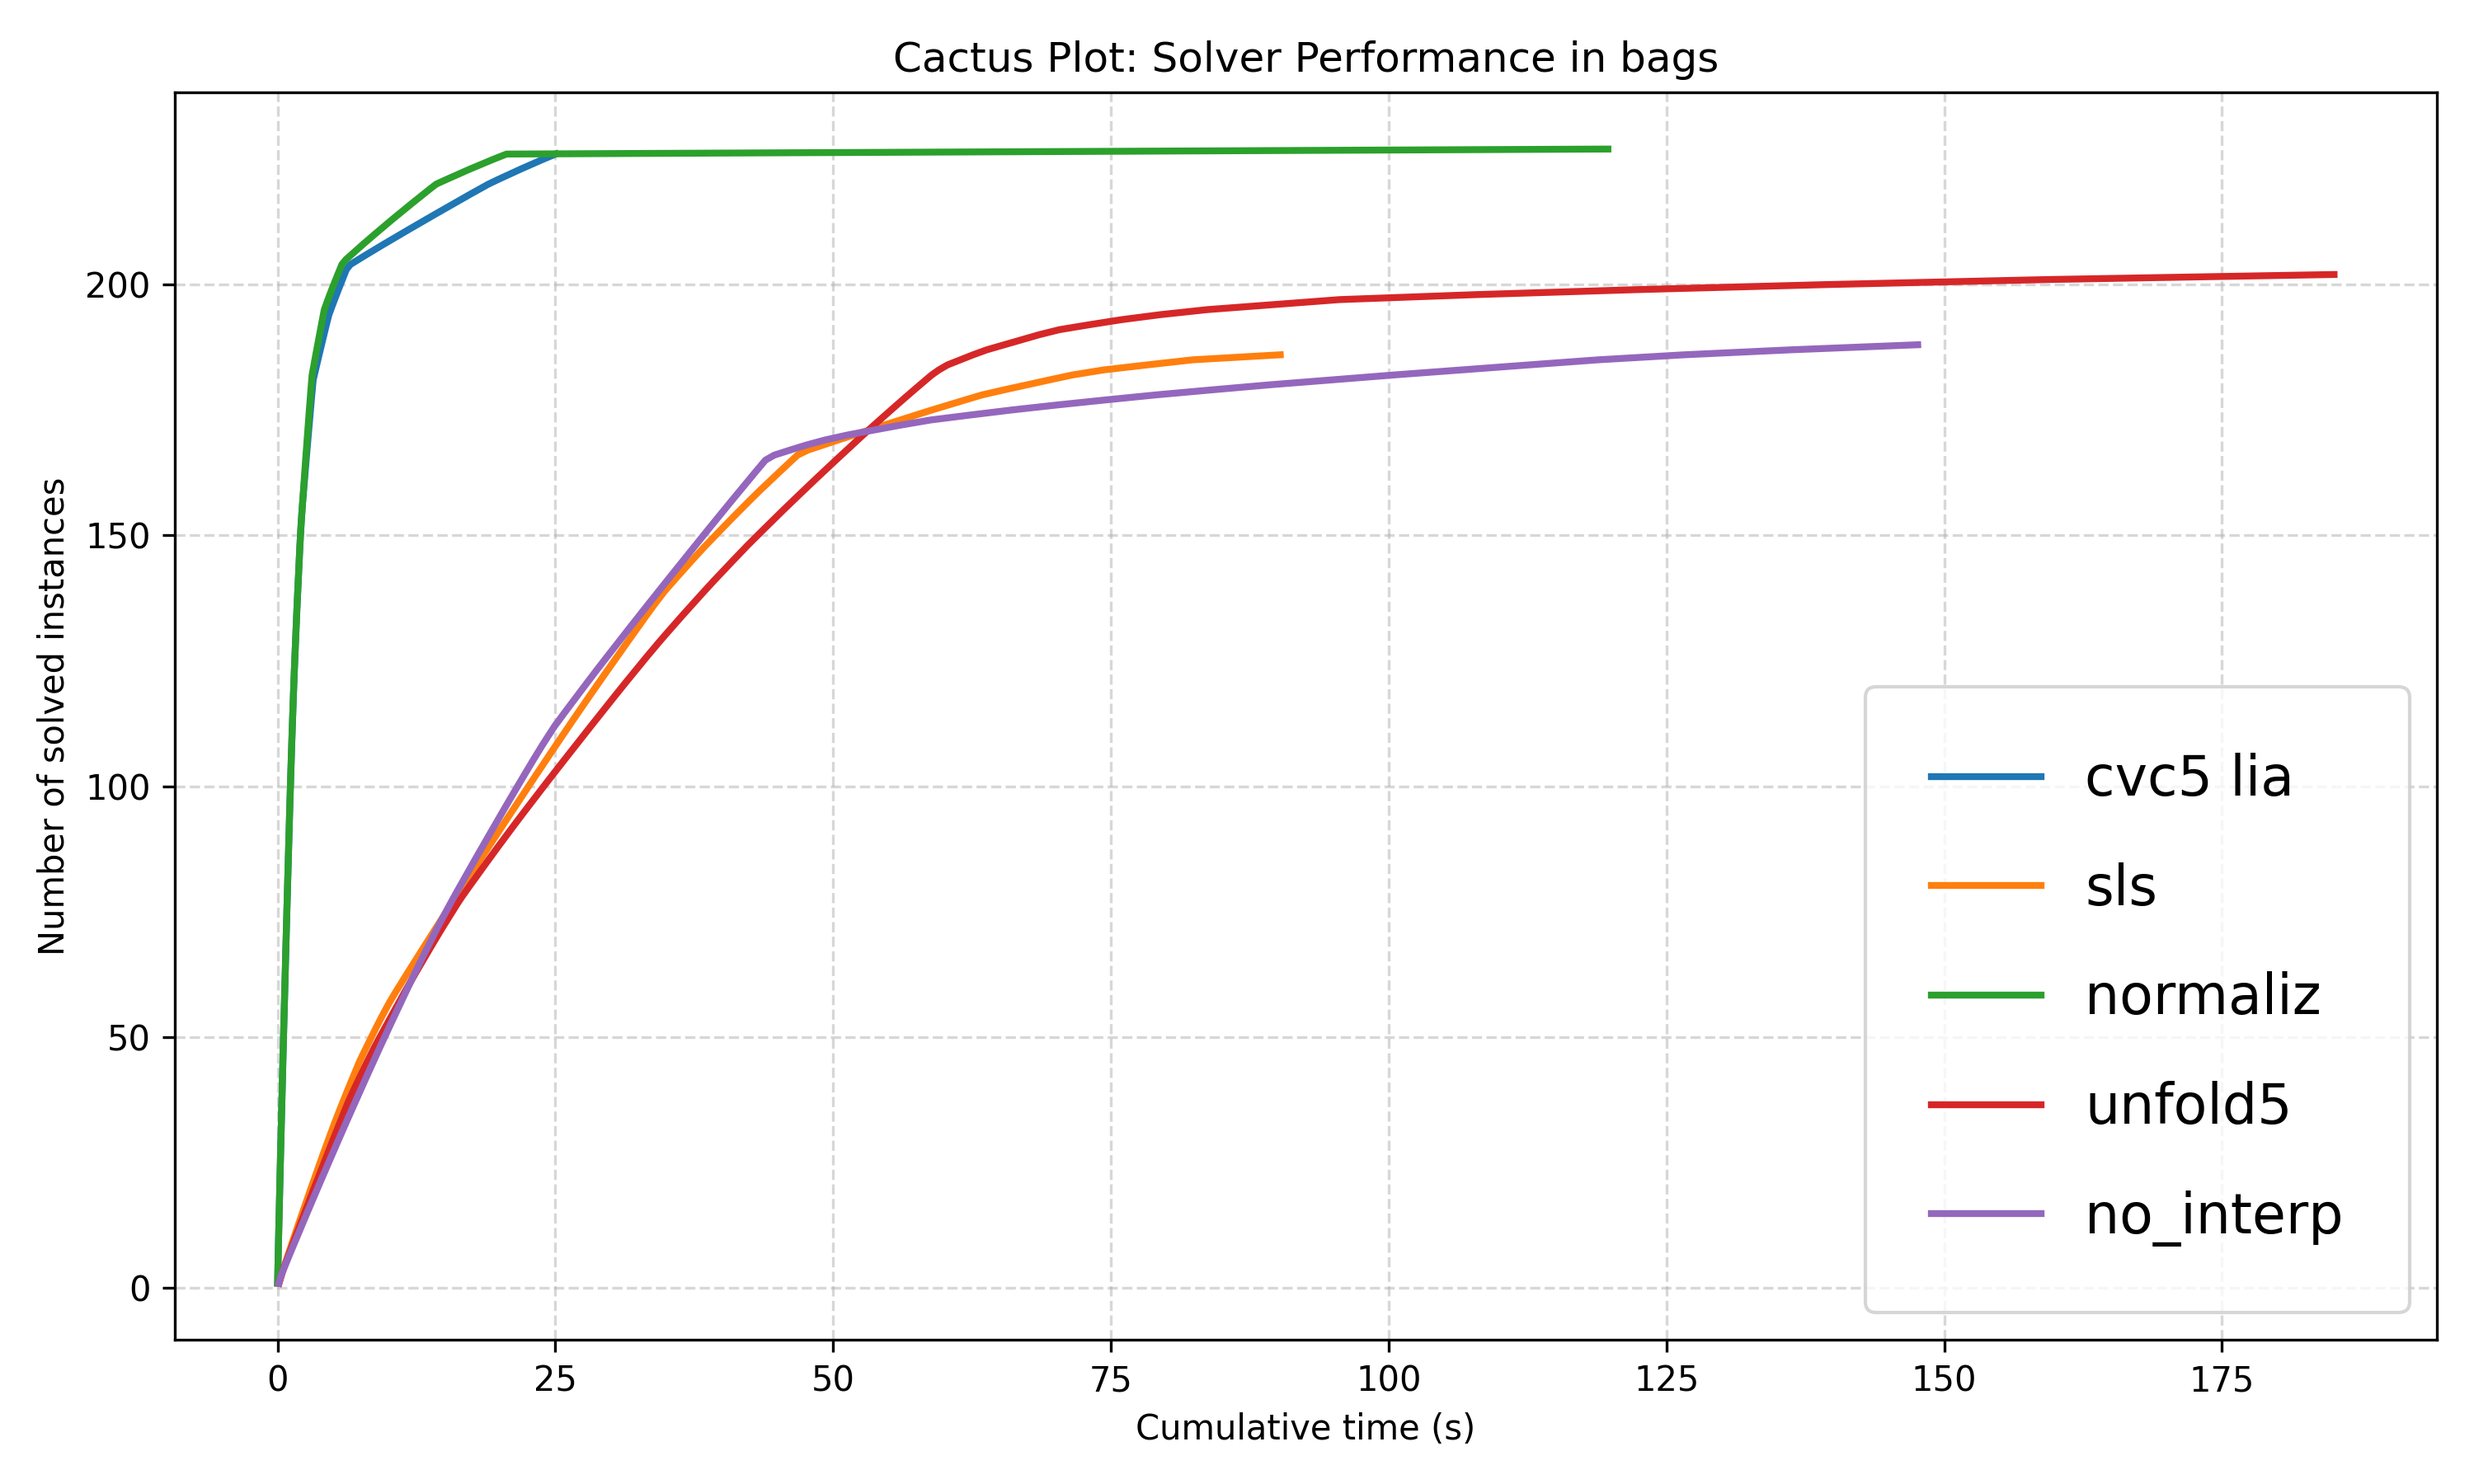
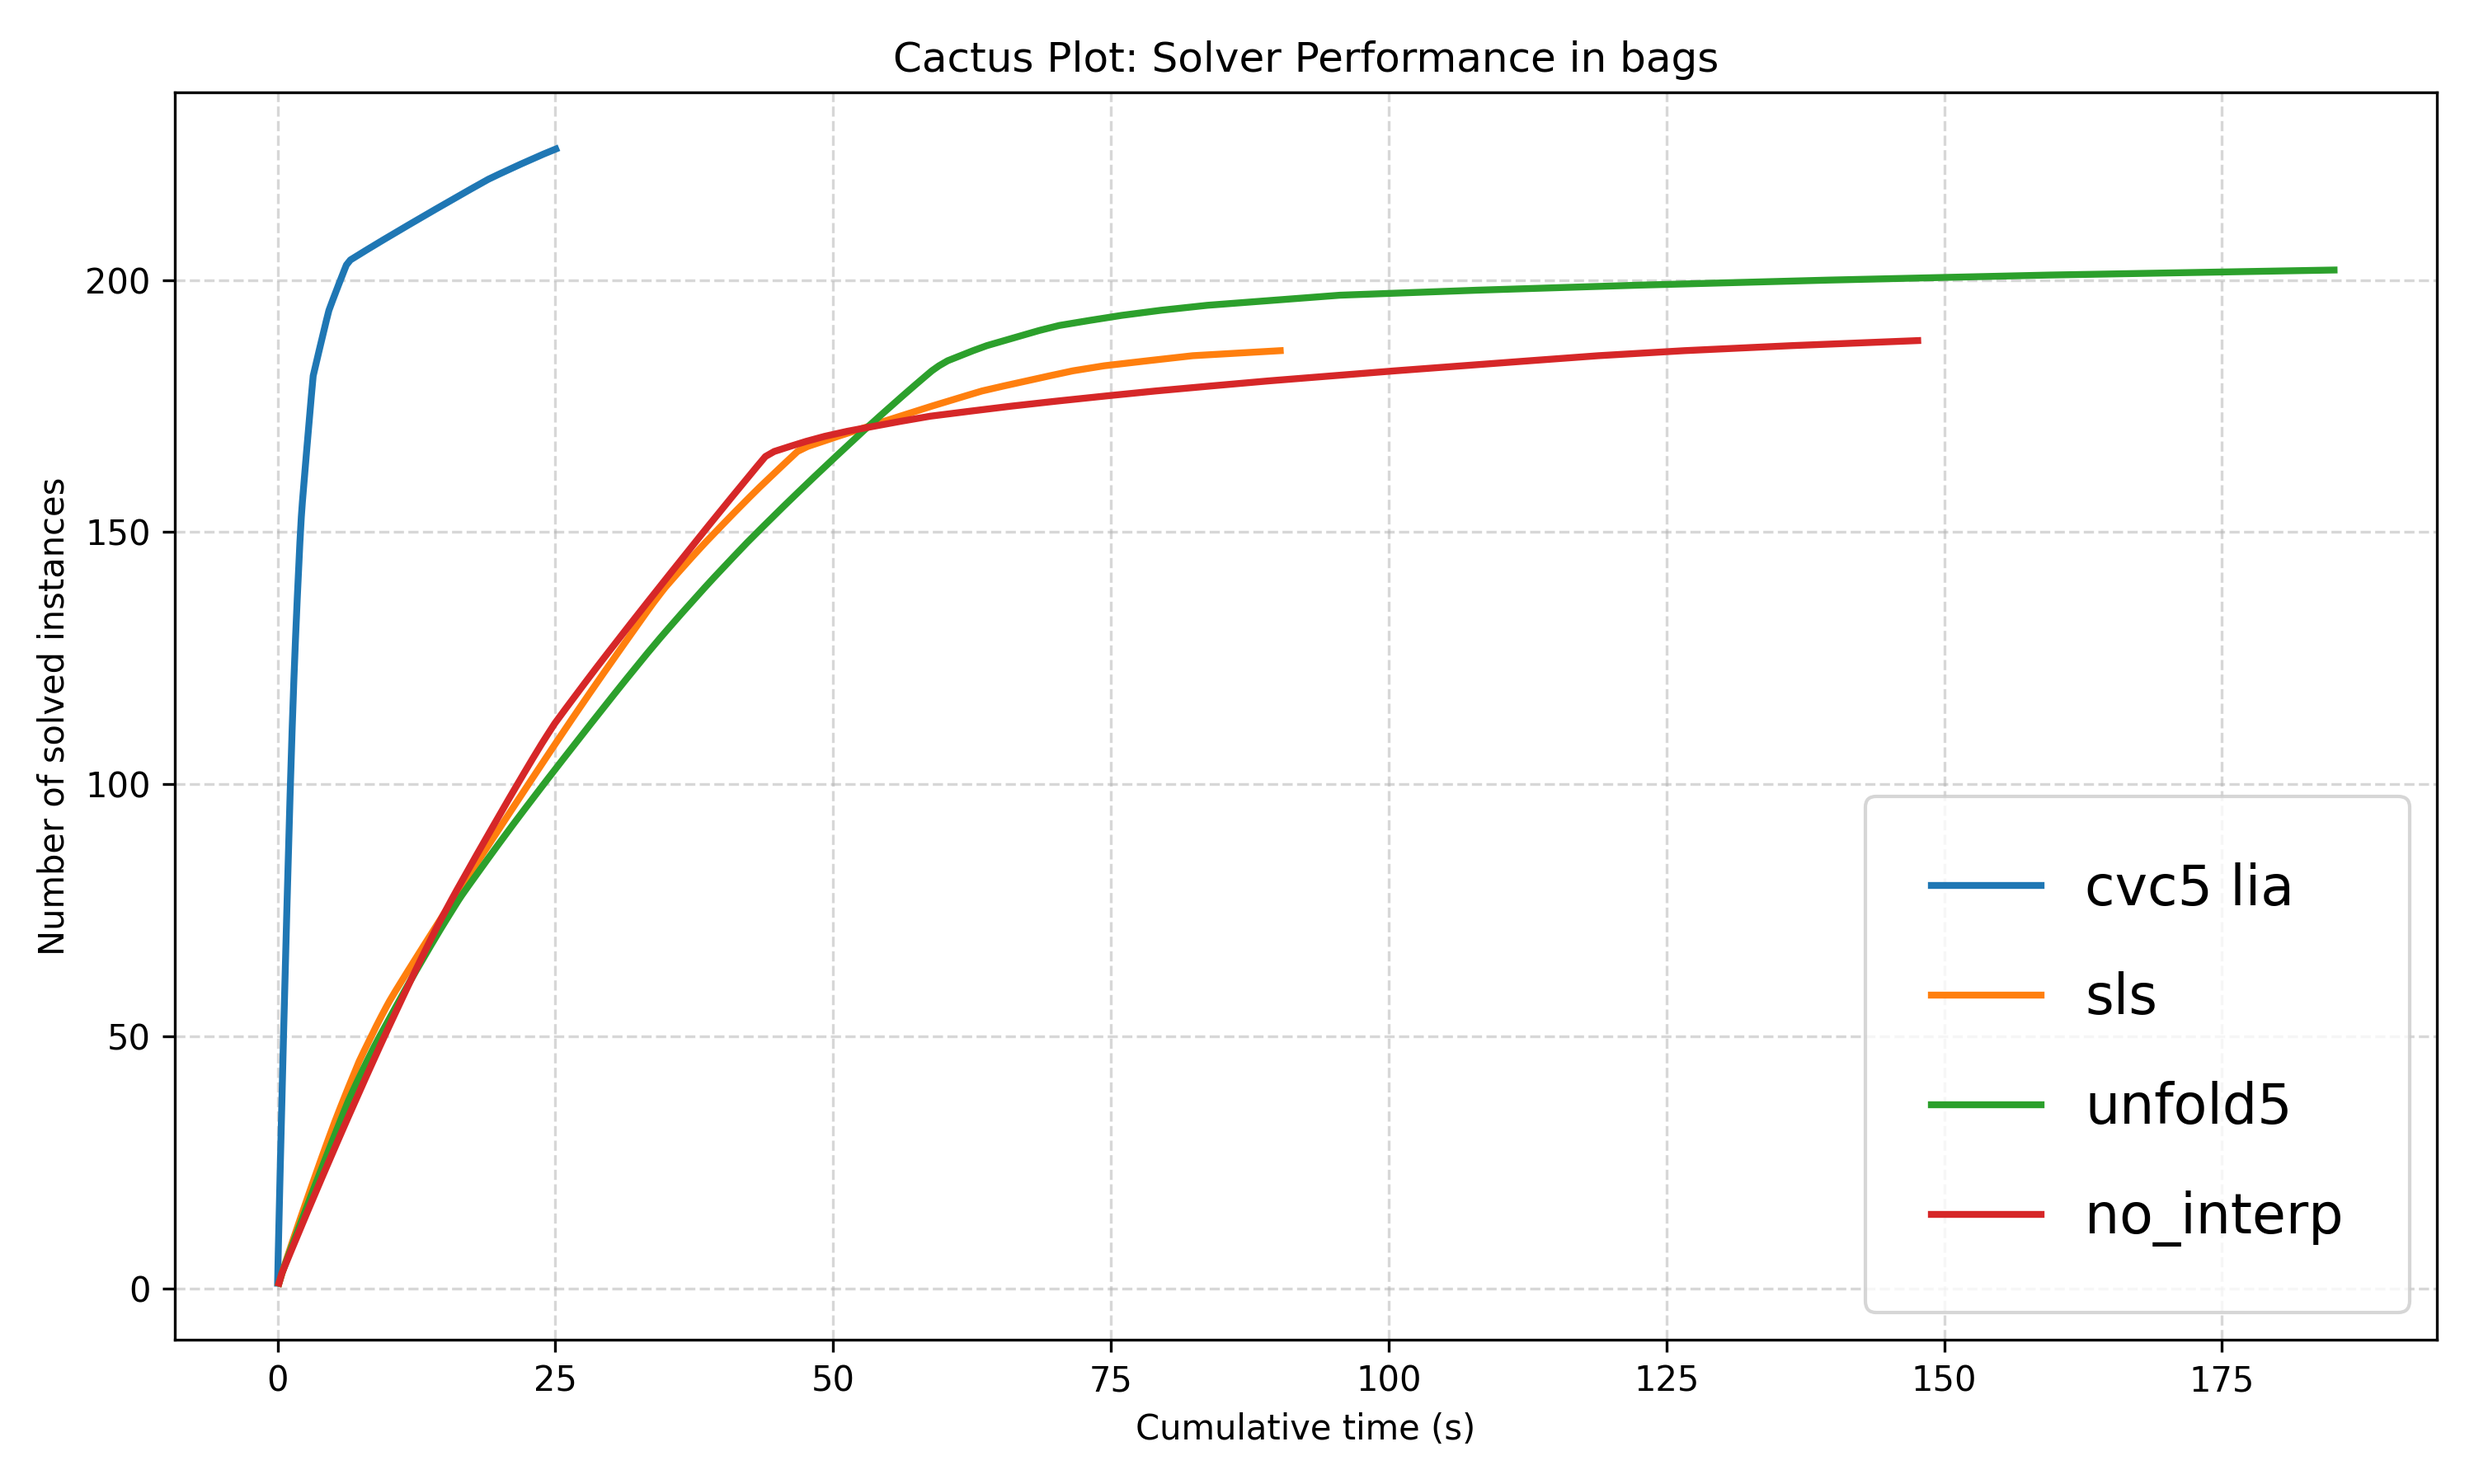
removed normaliz from the graph

diff --git a/mapa_plot.py b/mapa_plot.py
@@ -8,27 +8,27 @@ df = pd.read_csv("comparison_mapa.csv")
 # === Filter out timeouts ===
 df_sls = df[df["sls result"].astype(str).str.strip() != "timeout"]
 df_cvc5_lia = df[df["cvc5 lia result"].astype(str).str.strip() != "timeout"]
-df_normaliz = df[df["lia normaliz result"].astype(str).str.strip() != "timeout"]
+# df_normaliz = df[df["lia normaliz result"].astype(str).str.strip() != "timeout"]
 df_unfold5 = df[df["unfold5 result"].astype(str).str.strip() != "timeout"]
 df_no_interp = df[df["no_interp result"].astype(str).str.strip() != "timeout"]
 
 # === Extract and sort durations ===
 column_cvc5_lia = df_cvc5_lia["cvc5 lia duration"].astype(float).sort_values().tolist()
 column_sls = df_sls["sls duration"].astype(float).sort_values().tolist()
-column_normaliz = df_normaliz["lia normaliz duration"].astype(float).sort_values().tolist()
+# column_normaliz = df_normaliz["lia normaliz duration"].astype(float).sort_values().tolist()
 column_unfold5 = df_unfold5["unfold5 duration"].astype(float).sort_values().tolist()
 column_no_interp = df_no_interp["no_interp duration"].astype(float).sort_values().tolist()
 
 # === Compute cumulative sums ===
 cvc5_cum = np.cumsum(column_cvc5_lia)
 sls_cum = np.cumsum(column_sls)
-normaliz_cum = np.cumsum(column_normaliz)
+# normaliz_cum = np.cumsum(column_normaliz)
 unfold5_cum = np.cumsum(column_unfold5)
 no_interp_cum = np.cumsum(column_no_interp)
 
 cvc5_x = list(range(1, len(cvc5_cum) + 1))
 sls_x = list(range(1, len(sls_cum) + 1))
-normaliz_x = list(range(1, len(normaliz_cum) + 1))
+# normaliz_x = list(range(1, len(normaliz_cum) + 1))
 unfold5_x = list(range(1, len(unfold5_cum) + 1))
 no_interp_x = list(range(1, len(no_interp_cum) + 1))
 
@@ -36,7 +36,7 @@ no_interp_x = list(range(1, len(no_interp_cum) + 1))
 plt.figure(figsize=(10, 6))
 plt.plot(cvc5_cum, cvc5_x, label="cvc5 lia", linewidth=2)
 plt.plot(sls_cum, sls_x, label="sls", linewidth=2)
-plt.plot(normaliz_cum, normaliz_x, label="normaliz", linewidth=2)
+# plt.plot(normaliz_cum, normaliz_x, label="normaliz", linewidth=2)
 plt.plot(unfold5_cum, unfold5_x, label="unfold5", linewidth=2)
 plt.plot(no_interp_cum, no_interp_x, label="no_interp", linewidth=2)
 
